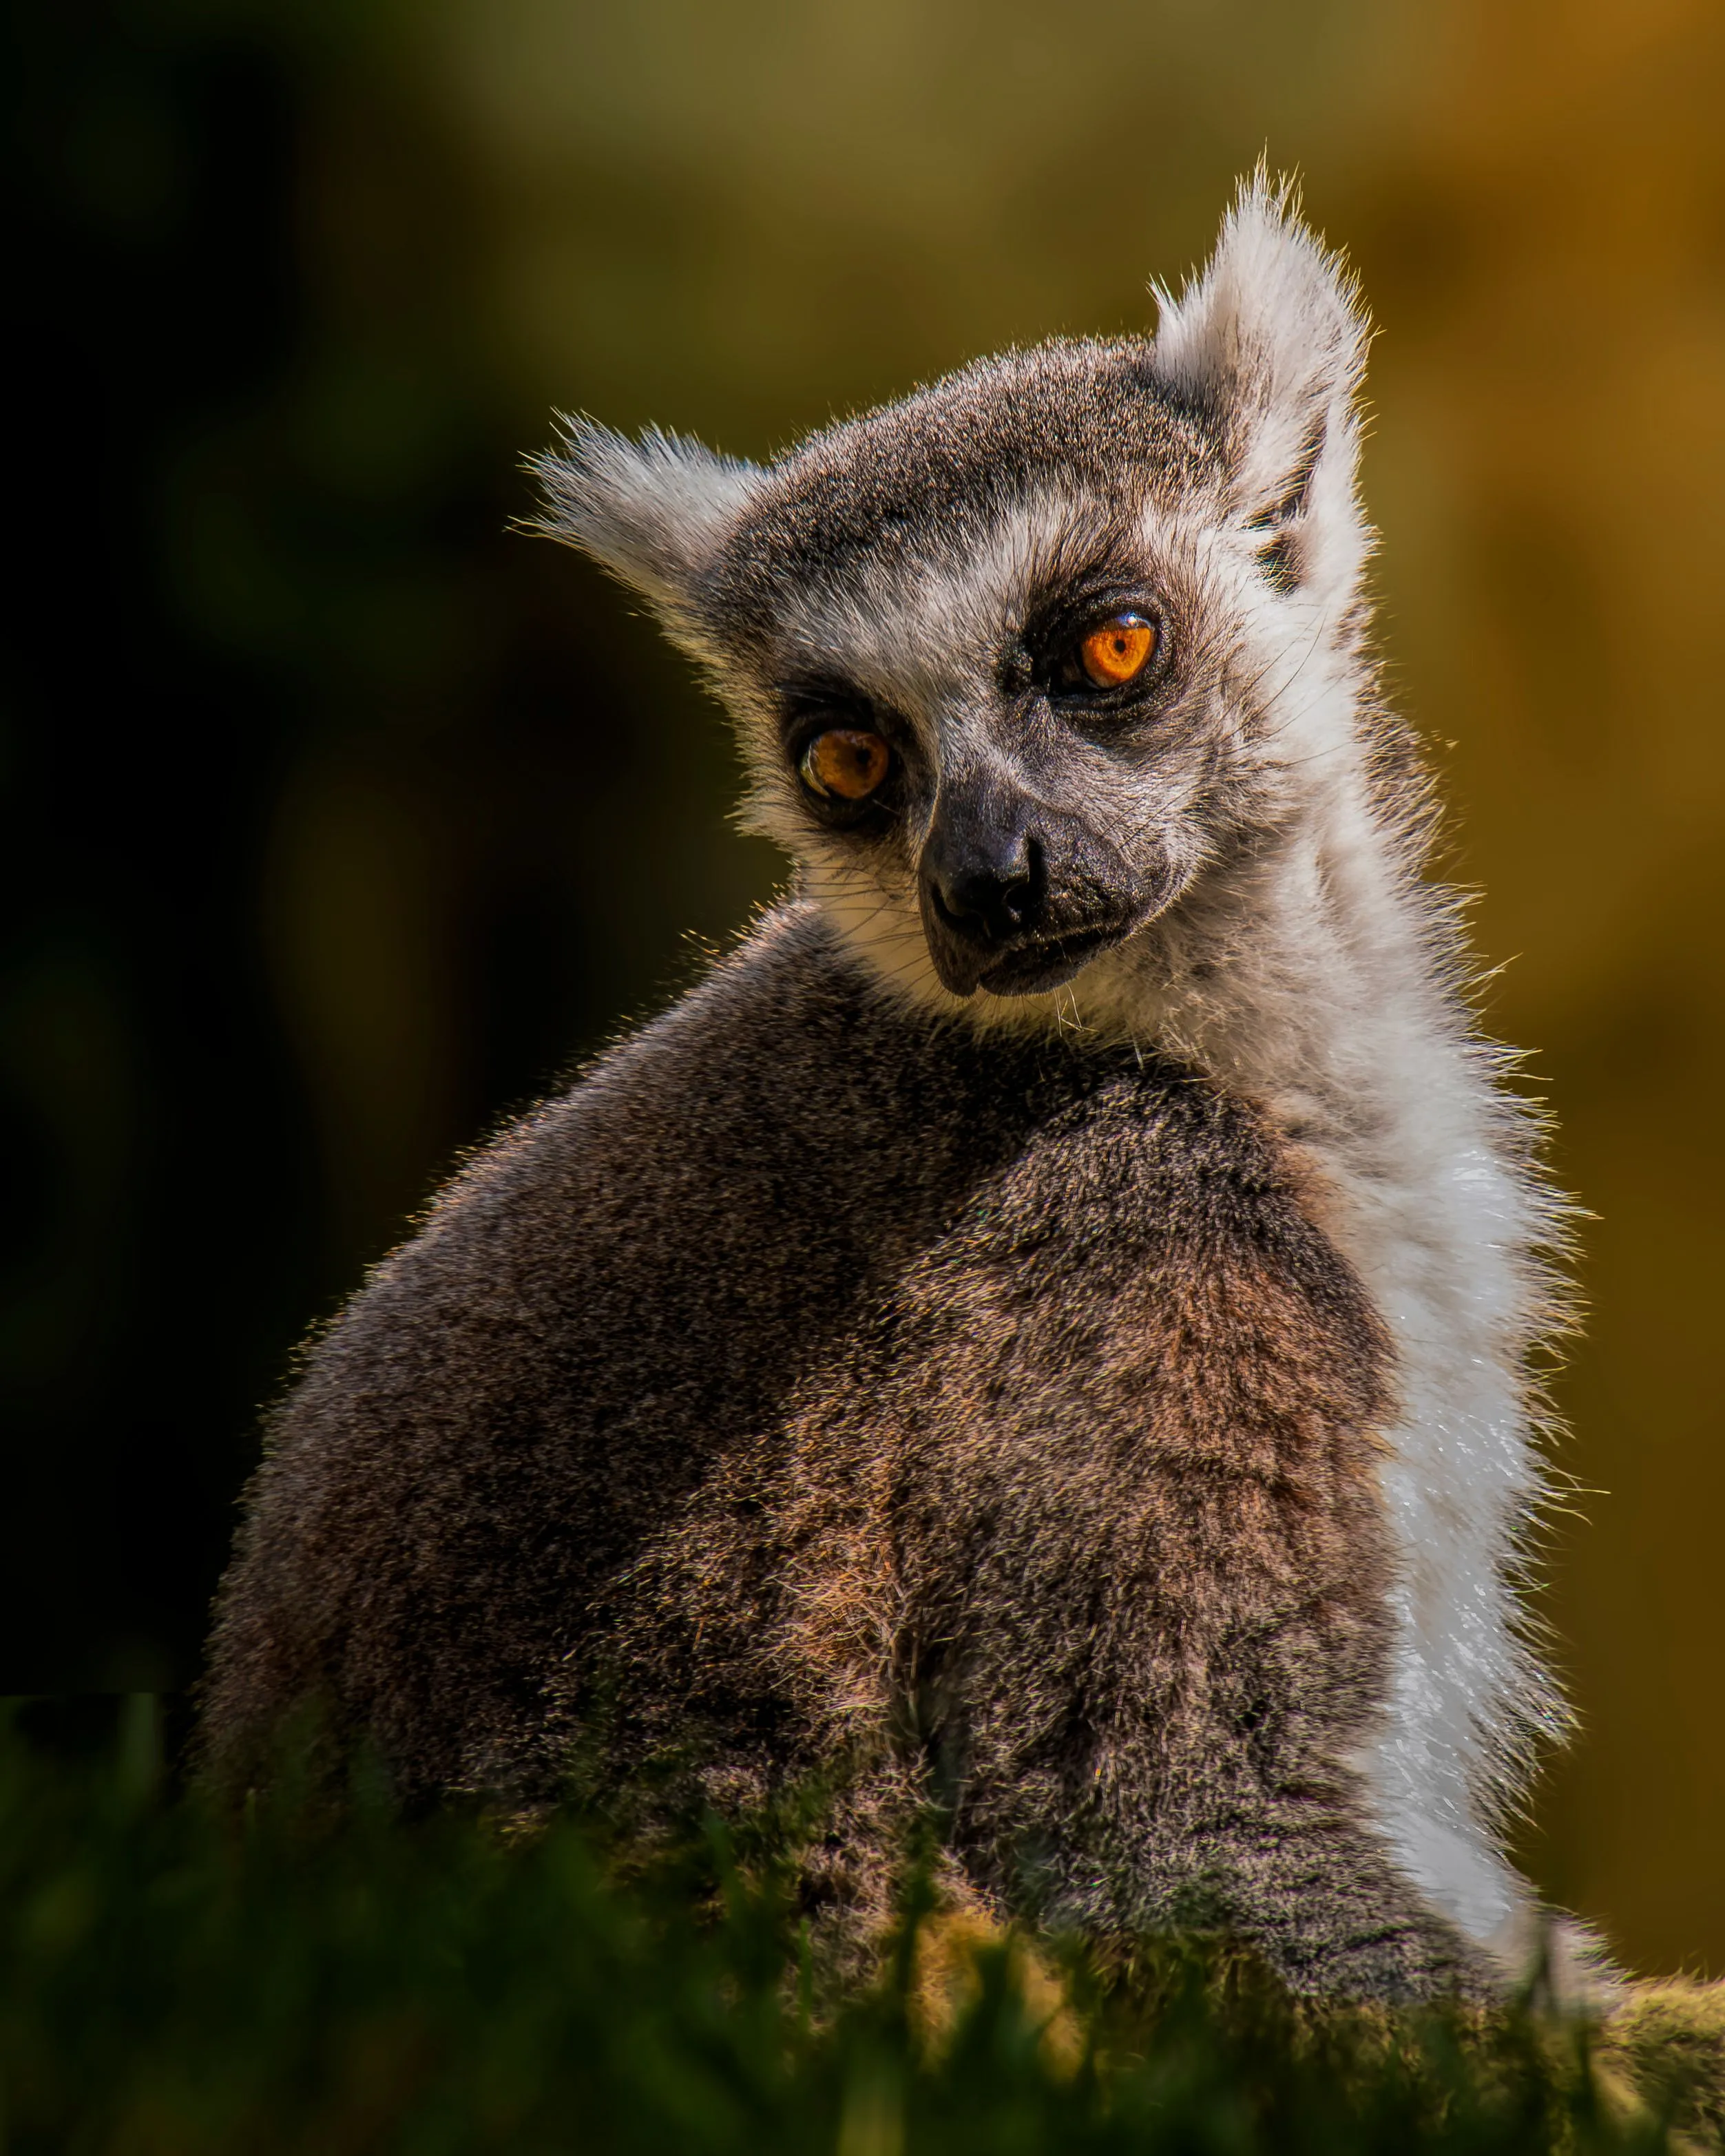
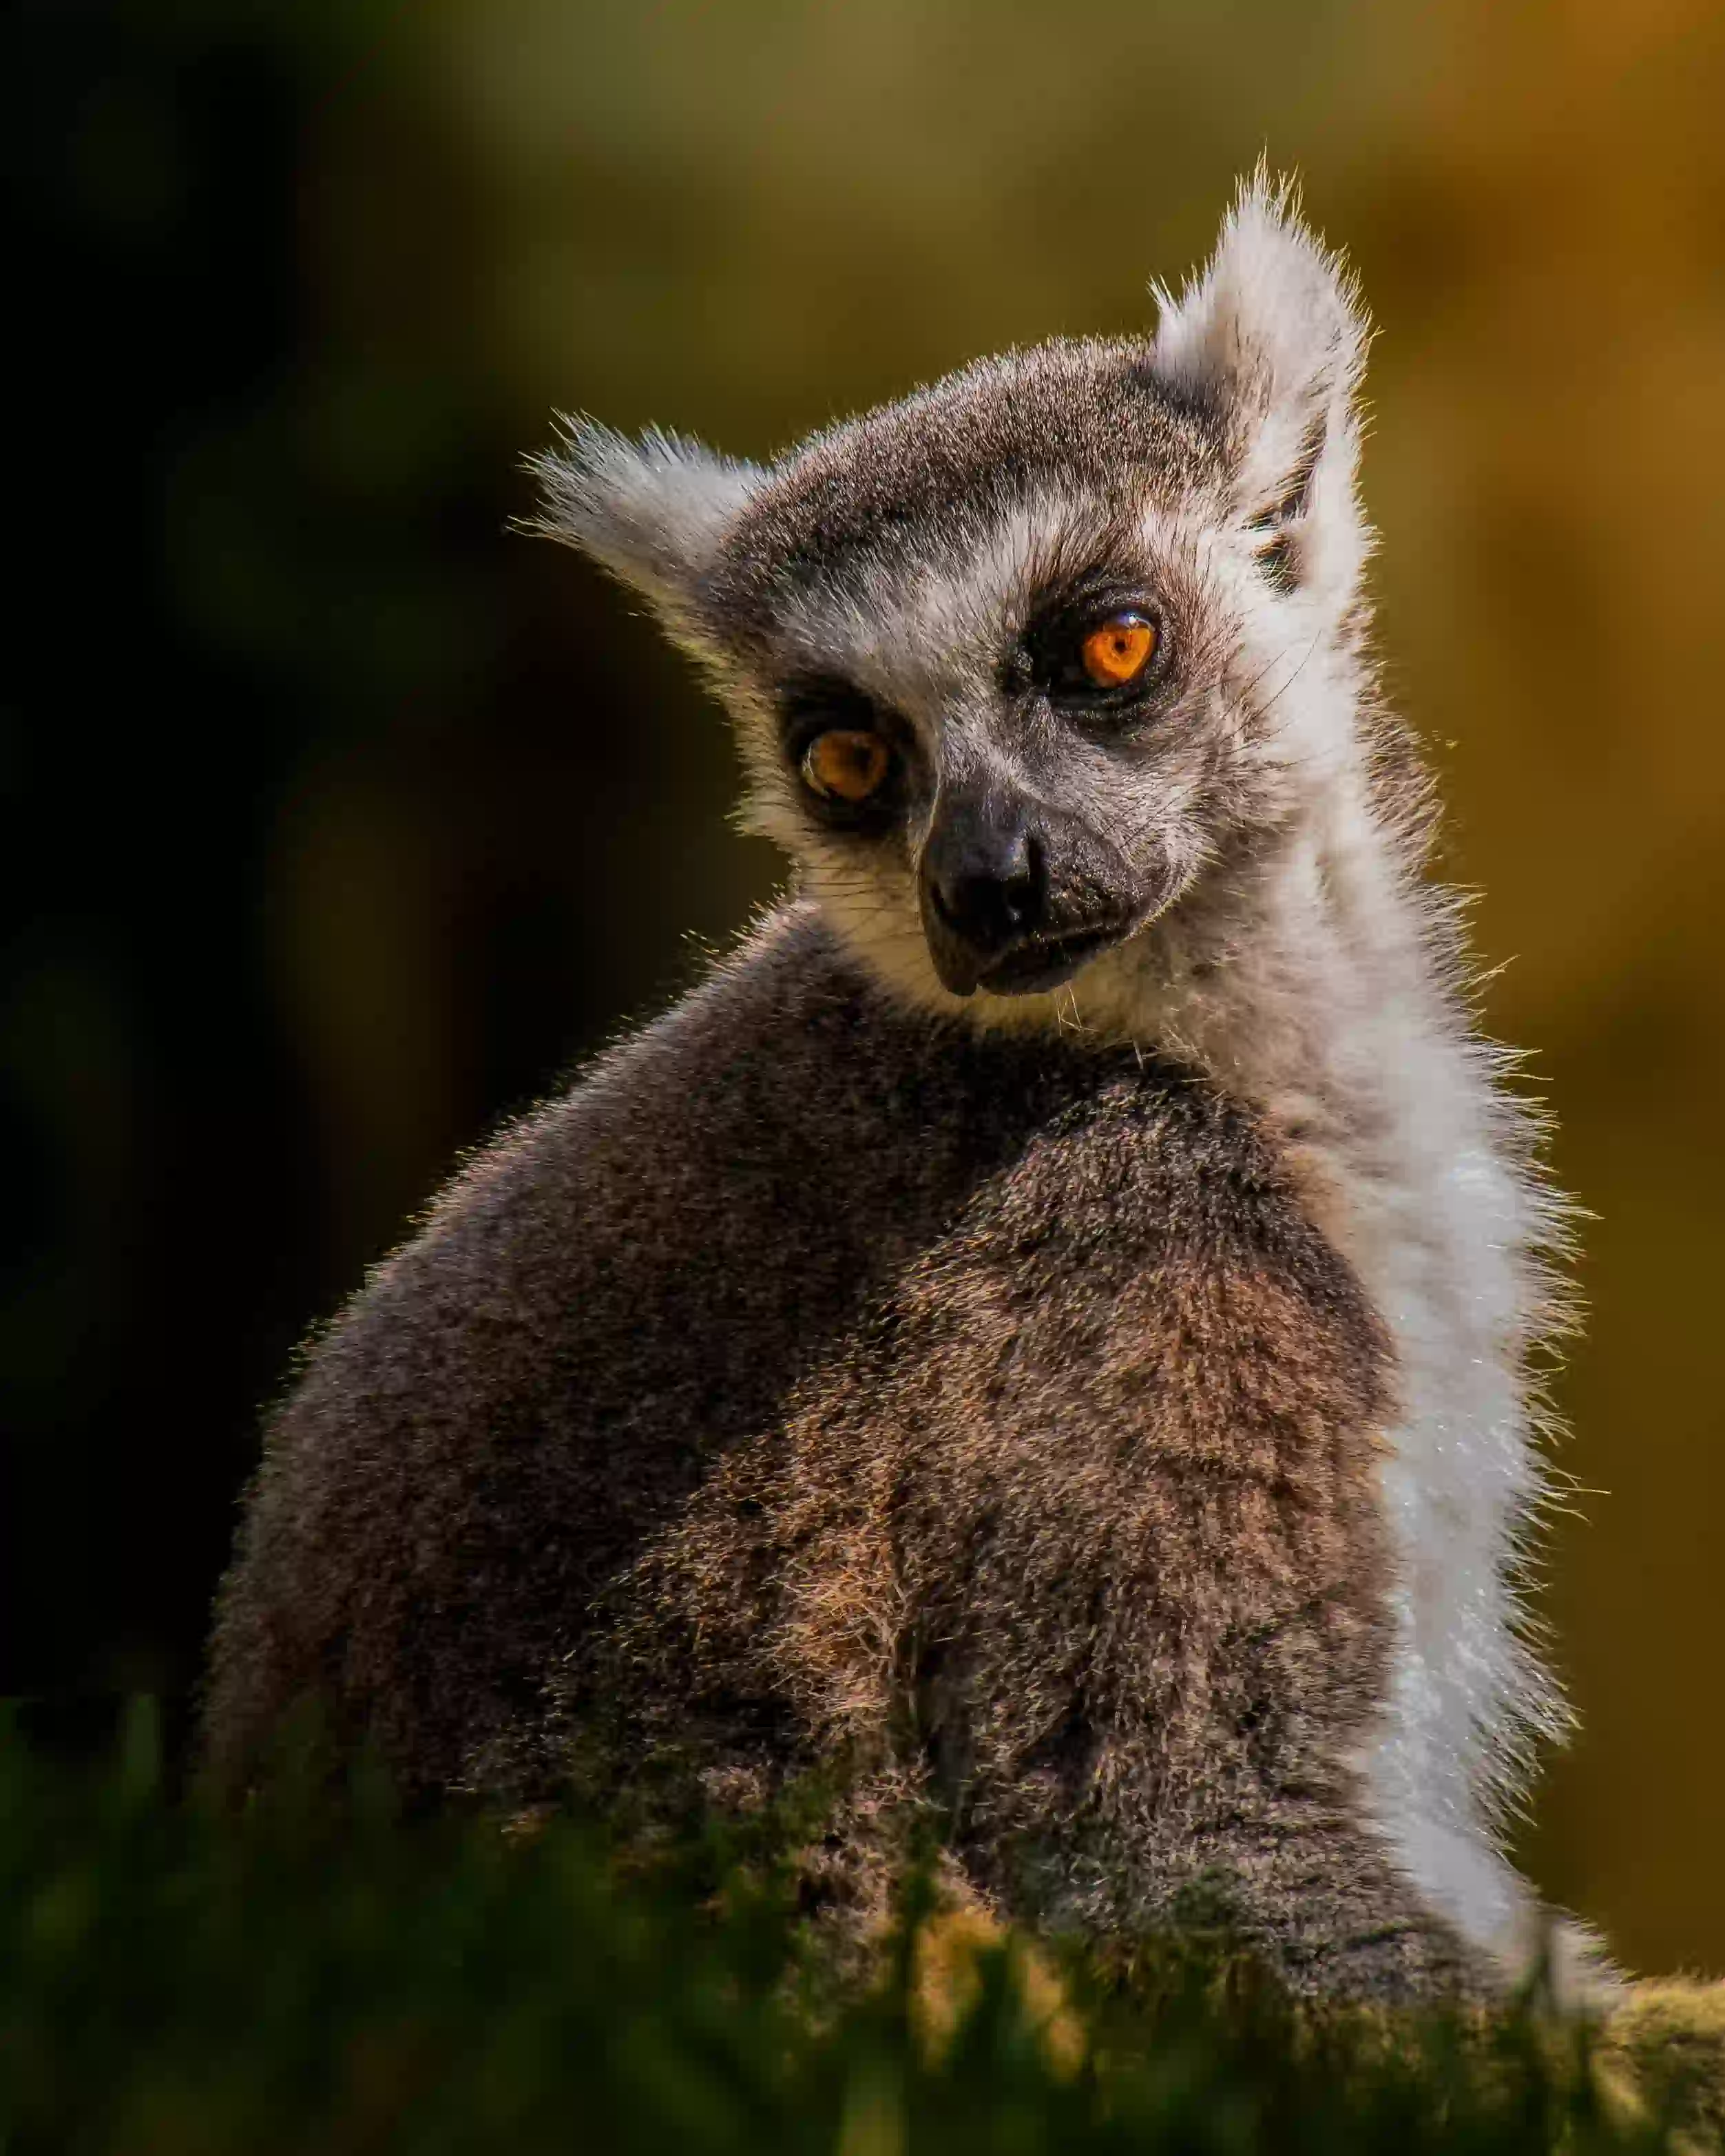
images changed

diff --git a/place.html b/place.html
@@ -4,8 +4,13 @@
     <meta charset="UTF-8">
     <meta name="viewport" content="width=device-width, initial-scale=1.0">
     <title>Madagascar | Place Page</title>
+    <meta name="description" content="Discover Madagascar's geography, culture, and weather with this responsive place page created for the WDD 131 course.">
+    <meta name="author" content="Isadora Paula da Cunha">
     <link rel="stylesheet" href="styles/place.css">
     <script src="scripts/place.js" defer></script>
+    <link rel="preconnect" href="https://fonts.googleapis.com">
+    <link rel="preconnect" href="https://fonts.gstatic.com" crossorigin>
+    <link href="https://fonts.googleapis.com/css2?family=Roboto:wght@400;700&display=swap" rel="stylesheet">
 </head>
 <body>
     <header>

diff --git a/styles/place.css b/styles/place.css
@@ -1,5 +1,3 @@
-@import url('https://fonts.googleapis.com/css2?family=Roboto:wght@400;700&display=swap');
-
 /* ===========================
    CSS VARIABLES
 =========================== */